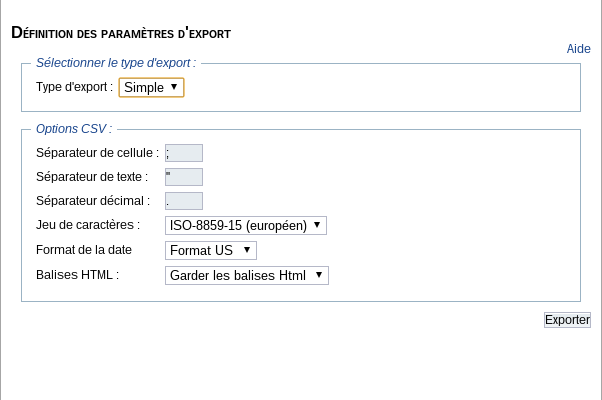
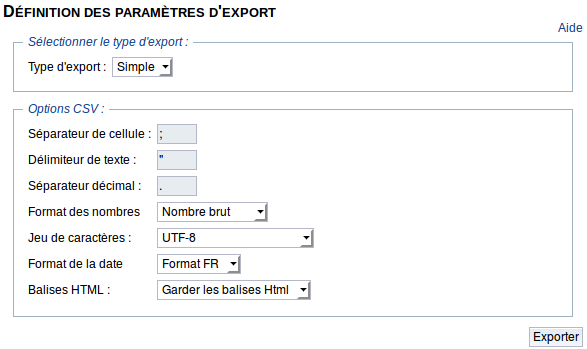
fix(doc): new report options (refs #5449)

Changed region(s): [[0.0, 0.0, 1.0, 0.9169], [0.8893, 0.8883, 1.0, 1.0]]

diff --git a/Contents/historique/historique.md b/Contents/historique/historique.md
@@ -15,7 +15,7 @@ Dynacase.
 | Fichier openDocument Writer : Précisions sur les images insérées dans les attributs "htmltext"                                                           | [Image et htmltext][convooo]     | <span class="flag update">Mis à jour</span> |
 | Précision sur les critères relations dans les recherches détaillées                                                                                      | [Recherche détaillée][relsearch] | <span class="flag update">Mis à jour</span> |
 | Possibilité de déclarer des attributs obligatoires dans les tableaux                                                                                     | [Attribut obligatoire][requires] | <span class="flag new">Nouveau</span>       |
-|                                                                                                                                                          |                                  |                                             |
+| Nouvelle option pour les nombres dans l'exportation CSV pour les rapports                                                                                | [Rapport][exportnumber]          | <span class="flag new">Nouveau</span>       |
 
 
 ## Édition 7 {#core-ref:67c3551d-d99a-43c9-b837-5d93439bff8e}
@@ -201,3 +201,4 @@ retour d'erreur.
 [convooo]:          #core-ref:6ad0e889-a8d8-4245-9051-a7ada2e31c86
 [relsearch]:        #core-ref:1ced6e00-055c-4959-836d-00ed077d14c8
 [requires]:         #core-ref:8c74cf5b-3e03-480f-ba05-1a86ea6ec634
+[exportnumber]:     #core-ref:cf6934f9-afe2-48ea-877a-7a1cdc9f770e

diff --git a/Contents/documents_systemes/report.md b/Contents/documents_systemes/report.md
@@ -81,9 +81,26 @@ en consultation, il permet d'exporter le rapport en CSV de deux manières :
 De plus, l'assistant d'export permet de définir différentes propriétés du fichier
 CSV généré (encodage, séparateur, format de date, etc.).
 
-![Export CSV](images/report_export_csv.png "Export CSV")
+![Export CSV](images/report_export_csv.png "Exportation CSV")
 
+Options d'exportation : 
 
+* le caractère de séparation des cellules : valeur par défaut ";"
+* le caractère de séparation de texte : valeur par défaut "
+* le caractère de séparation des valeurs décimal : valeur par défaut ,
+* <span class="flag from release">3.2.19</span> le format des nombre : par défaut 
+  les nombres sont exportés avec leur format 
+  comme par exemple la devise pour le type `money`
+* le jeu de caractère : valeur par défaut "iso 8859-15"
+* le format de la date : 
+   * US : Format AAAA-MM-JJ HH:MM
+   * FR : Format JJ/MM/AAAA HH:MM
+   * ISO : Format AAAA-MM-JJTHH:MM
+* les balises HTML : pour les attribut HTML permet de ne conserver que le texte
+   brut si on enlève les balises
+
+Les options modifiées sont conservées pour chaque utilisateur et sont réutilisées
+à chaque nouvelle exportation.
 
 <!-- links -->
 [detailed_search_param]: #core-ref:de8a1440-fb42-4ad0-b041-5c762b5258d9
